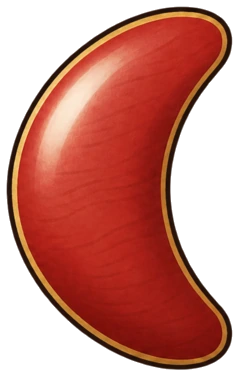
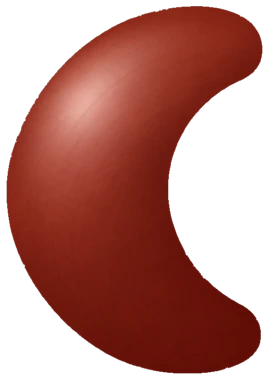
換上新籤筒與筊杯、重做 og 預覽圖
- 籤筒改廟宇式長籤筒（fortune-cylinder-v2）；籤枝跳出位置跟著調整
- 筊杯換新版：兩面同色、無金邊（最外緣黃橘像素 0%）
- og.jpg 用 og-notext 疊新名稱與標語，字型與網站一致
- process-art.py 改讀 v2 原圖

diff --git a/src/styles.css b/src/styles.css
@@ -87,7 +87,7 @@ h2 { font-size: 28px; color: var(--paper); }
 .ring .bg { stroke: rgba(255, 255, 255, 0.12); } .ring .fg { stroke: var(--gold); stroke-linecap: round; }
 
 /* 搖籤 */
-.stage { min-height: 320px; touch-action: none; user-select: none; -webkit-user-select: none; cursor: grab; }
+.stage { min-height: 300px; display: grid; place-items: center; touch-action: none; user-select: none; -webkit-user-select: none; cursor: grab; }
 .meter { width: 70%; height: 10px; background: var(--bg3); border-radius: 6px; overflow: hidden; margin: 6px auto 0; }
 .meter i { display: block; height: 100%; background: linear-gradient(90deg, var(--gold-d), var(--gold)); transition: width 0.08s; }
 
@@ -144,9 +144,9 @@ footer { text-align: center; color: var(--sub); font-size: 14px; padding-top: 18
 }
 
 /* 美術版的籤筒 / 筊杯 / 神像 / 首頁 */
-.cyl { position: relative; width: 210px; transform-origin: 50% 92%; transition: transform 0.06s linear; }
+.cyl { position: relative; width: 150px; transform-origin: 50% 92%; transition: transform 0.06s linear; }
 .cyl-img { width: 100%; display: block; filter: drop-shadow(0 14px 18px rgba(0, 0, 0, 0.5)); pointer-events: none; }
-.cyl-stick { position: absolute; left: 50%; top: -34%; width: 9%; margin-left: -4%; animation: pop 0.7s ease-out both; pointer-events: none; }
+.cyl-stick { position: absolute; left: 53%; top: -16%; width: 8%; margin-left: -4%; animation: pop 0.7s ease-out both; pointer-events: none; }
 .cyl-bar { position: absolute; left: 10%; bottom: -10px; height: 5px; border-radius: 3px; background: var(--gold); }
 @keyframes pop { from { transform: translateY(70%) } to { transform: translateY(0) } }
 @keyframes toss { 0% { transform: translateY(0) rotate(0) } 35% { transform: translateY(-130px) rotate(360deg) } 70% { transform: translateY(-20px) rotate(720deg) } 100% { transform: translateY(0) rotate(1080deg) } }

diff --git a/scripts/process-art.py b/scripts/process-art.py
@@ -164,7 +164,7 @@ if im:
         save(fit(c, max_side=400), f"deity-{i}.webp", 90)
 
 for src, out, kw, tag in [
-    ("fortune-cylinder.png", "cylinder.webp", dict(height=620), "籤筒"),
+    ("fortune-cylinder-v2.png", "cylinder.webp", dict(height=800), "籤筒（廟宇長籤筒 v2）"),
     ("fortune-stick.png", "stick.webp", dict(height=520), "籤枝"),
     ("woodfish.png", "woodfish.webp", dict(width=640), "木魚"),
     ("mallet.png", "mallet.webp", dict(width=720), "木槌"),
@@ -177,7 +177,7 @@ for src, out, kw, tag in [
         save(fit(trim(c), **kw), out, 90)
 
 print("== 筊杯（平面、圓面）==")
-im = load("jiaobei-sheet.png")
+im = load("jiaobei-v2-sheet.png")
 if im:
     a, b = cells(im, 2, 1)
     a, _ = clean(a)
